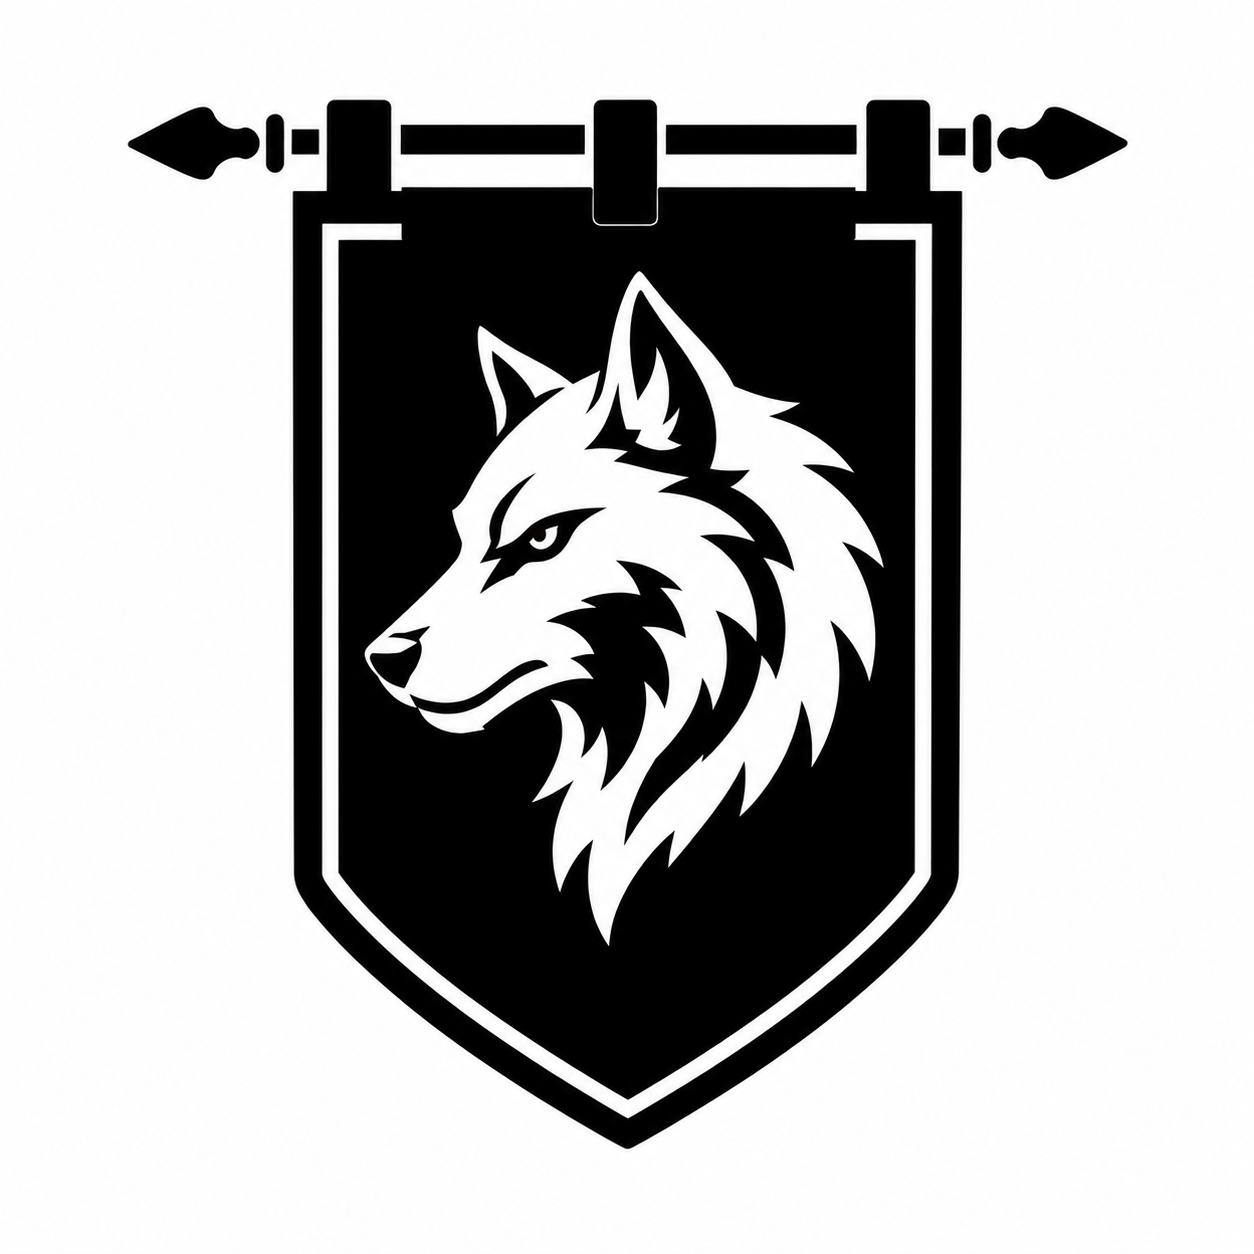
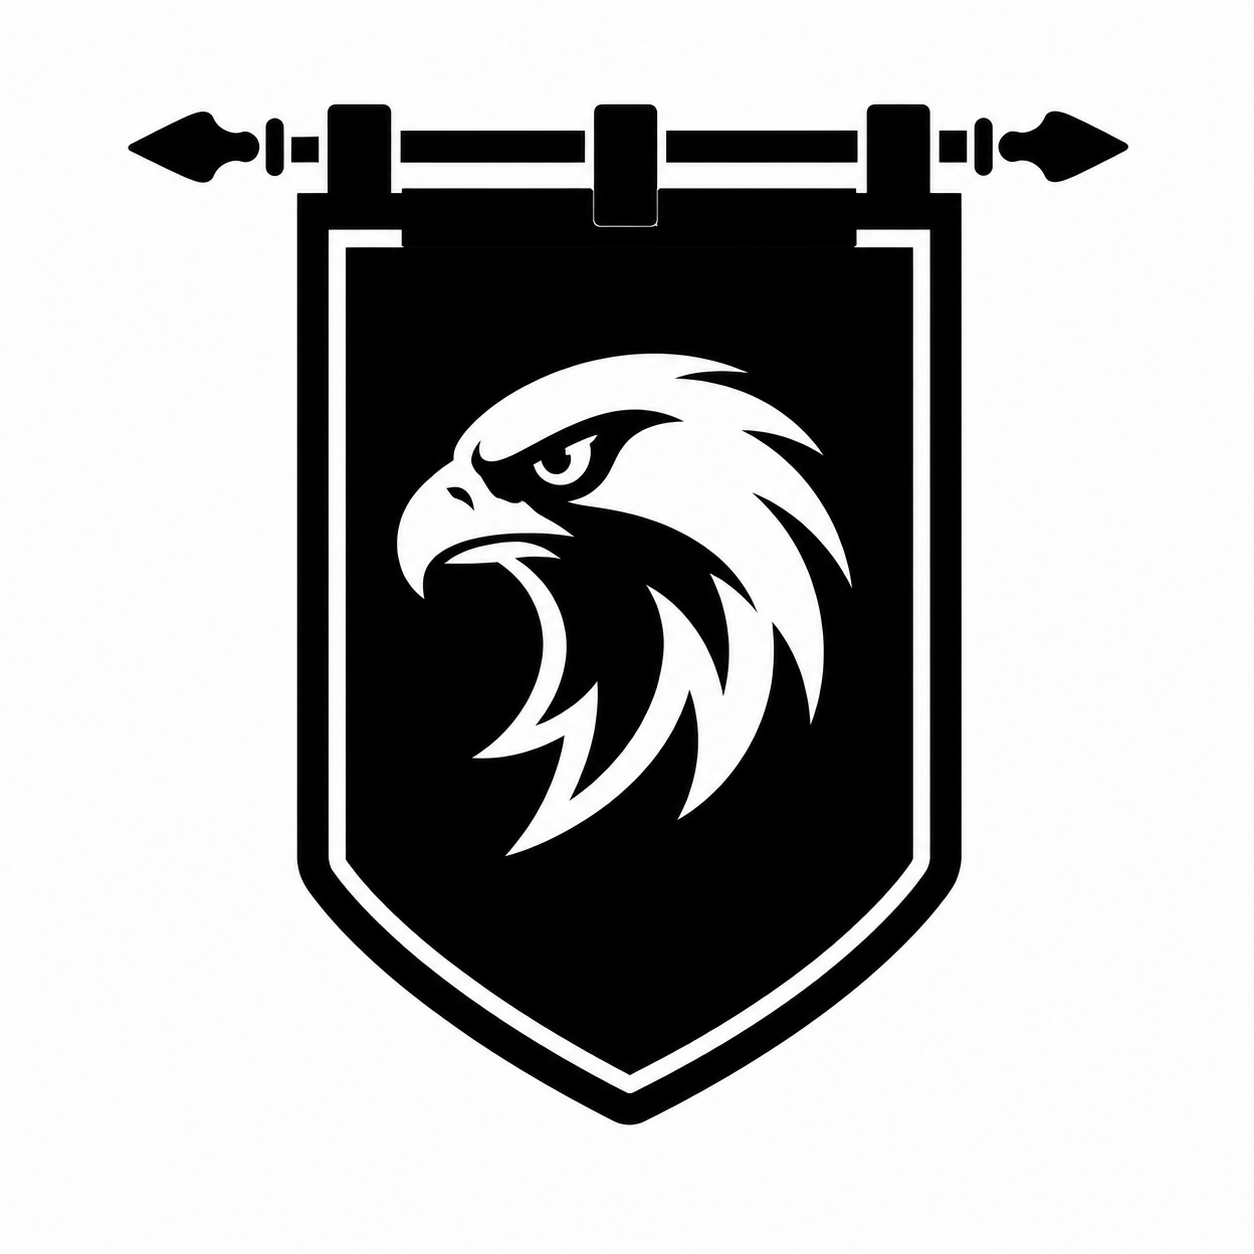
fix(assets): correct mis-mapped heraldry; add bow (ranged) and mace
The rapid-fire art drops raced my "newest file" copy heuristic, so a few
banners and the axe meeple were duplicates of the wrong image. Re-copied
every mark from its correctly-named source; all 17 marks are now distinct.

Wire the weapon set to attack types on the unit sheet: melee -> sword,
ranged -> bow, magic -> an inked sigil (placeholder until magic art
arrives). Add the mace weapon for GREATHELM's heavy attacks (not yet
surfaced on a sheet).

diff --git a/packages/battleframe-simple-skirmish/styles/simple-skirmish.css b/packages/battleframe-simple-skirmish/styles/simple-skirmish.css
@@ -138,12 +138,29 @@
   background-image: url("systems/battleframe/assets/heraldry/knight-meeple.png");
 }
 
-.battleframe-simple-skirmish.sheet.unit .bf-device--attack .bf-device__icon {
+.battleframe-simple-skirmish.sheet.unit .bf-device--melee .bf-device__icon {
   background-image: url("systems/battleframe/assets/heraldry/sword.png");
+}
+
+.battleframe-simple-skirmish.sheet.unit .bf-device--ranged .bf-device__icon {
+  background-image: url("systems/battleframe/assets/heraldry/bow.png");
 }
 
 .battleframe-simple-skirmish.sheet.unit .bf-device--save .bf-device__icon {
   background-image: url("systems/battleframe/assets/heraldry/shield.png");
+}
+
+/* Magic has no dedicated mark yet — an inked sigil holds the slot so the
+   three attack tiles stay uniform. Swap for art when it arrives. */
+.battleframe-simple-skirmish.sheet.unit .bf-device--magic .bf-device__icon {
+  mix-blend-mode: normal;
+}
+
+.battleframe-simple-skirmish.sheet.unit .bf-device--magic .bf-device__icon::before {
+  content: "\2739"; /* ✹ — arcane sigil */
+  font-size: 1.6rem;
+  line-height: 1;
+  color: var(--bf-gules);
 }
 
 /* Abstract stats: an inked glyph fills the icon slot so tiles stay uniform. */
